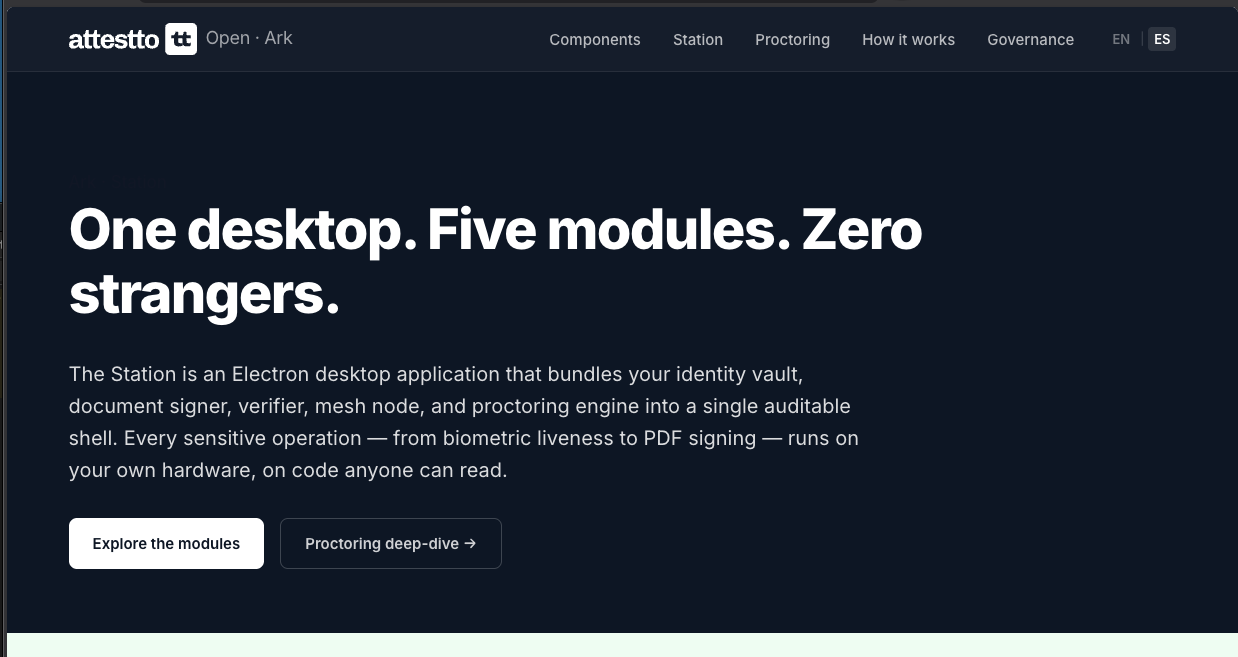
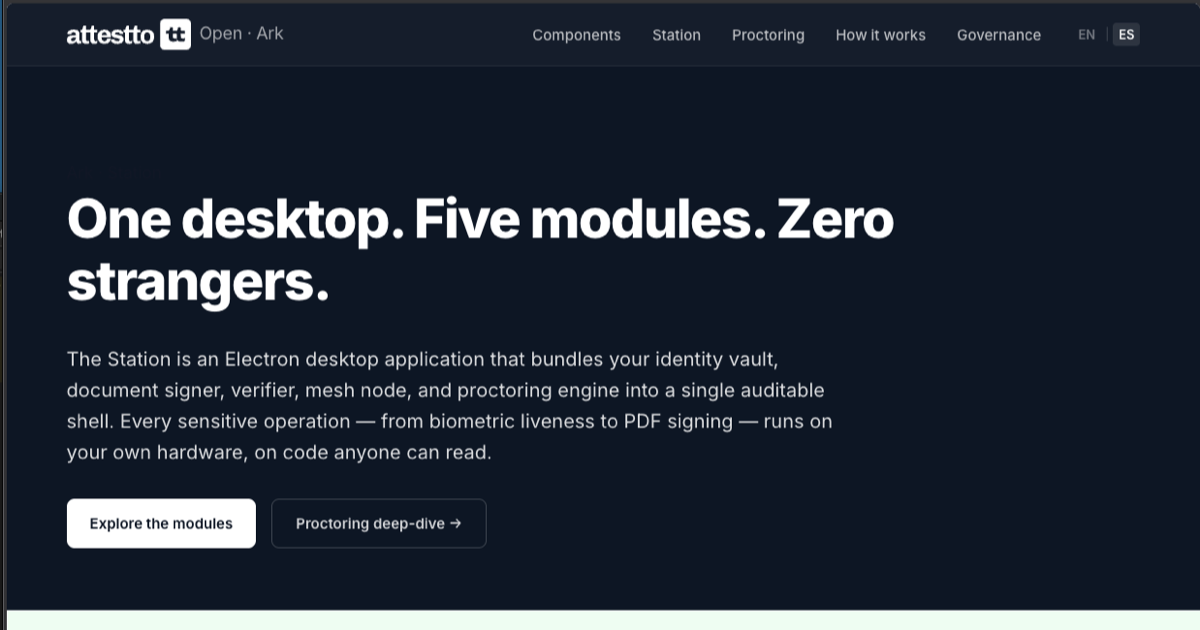
ark: preserve lang in URL on switch + resize OG images to 1200x630
i18n.js:
- switchLang() now updates window.location with ?lang=<code> via
  history.replaceState so 'copy link' carries the language. The
  recipient lands in the same language as the sharer. Back button
  is not polluted (replaceState, not pushState).

OG images:
- Resize all four og-image*.png files to the standard 1200x630
  via sips: og-image.png (1135x576 → 1200x630), og-image-station,
  og-image-proctoring, og-image-proctoring-es (all were ~1230x640
  ish — close but off-spec).
- Update og:image:width/height meta on /ark/desktop and
  /ark/proctoring from the screenshot dimensions to 1200/630.

Per-locale OG cards (so Slack/iMessage thumbnails reflect the
viewer's language) is deferred — would need either separate
per-locale HTML files with their own meta tags, or a build step
that emits per-locale variants. Not worth the file-count doubling
right now. Filed as follow-up.

diff --git a/ark/proctoring/index.html b/ark/proctoring/index.html
@@ -13,8 +13,8 @@
   <meta property="og:url" content="https://attestto.org/ark/proctoring">
   <meta property="og:site_name" content="Attestto">
   <meta property="og:image" content="https://attestto.org/assets/og-image-proctoring.png">
-  <meta property="og:image:width" content="1196">
-  <meta property="og:image:height" content="640">
+  <meta property="og:image:width" content="1200">
+  <meta property="og:image:height" content="630">
   <meta property="og:image:alt" content="Attestto Ark Proctoring — The proctor is code on your computer. Not a stranger in a cloud.">
   <meta property="og:locale" content="en_US">
   <meta property="og:locale:alternate" content="es_ES">

diff --git a/assets/js/i18n.js b/assets/js/i18n.js
@@ -111,6 +111,18 @@
     if (!SUPPORTED.includes(lang) || lang === currentLang) return;
     currentLang = lang;
     localStorage.setItem(STORAGE_KEY, lang);
+
+    // Update the URL so that "copy link" carries the language and
+    // recipients land in the same language as the sharer. Uses
+    // history.replaceState so the back button isn't polluted.
+    try {
+      var url = new URL(window.location.href);
+      url.searchParams.set('lang', lang);
+      window.history.replaceState({}, '', url.toString());
+    } catch (e) {
+      // Older browsers without URL constructor — non-fatal
+    }
+
     loadTranslations(lang, applyTranslations);
   }
 

diff --git a/ark/desktop/index.html b/ark/desktop/index.html
@@ -13,8 +13,8 @@
   <meta property="og:url" content="https://attestto.org/ark/desktop">
   <meta property="og:site_name" content="Attestto">
   <meta property="og:image" content="https://attestto.org/assets/og-image-station.png">
-  <meta property="og:image:width" content="1238">
-  <meta property="og:image:height" content="640">
+  <meta property="og:image:width" content="1200">
+  <meta property="og:image:height" content="630">
   <meta property="og:image:alt" content="Attestto Ark Station — One desktop. Five modules. Zero strangers.">
   <meta property="og:locale" content="en_US">
   <meta property="og:locale:alternate" content="es_ES">
